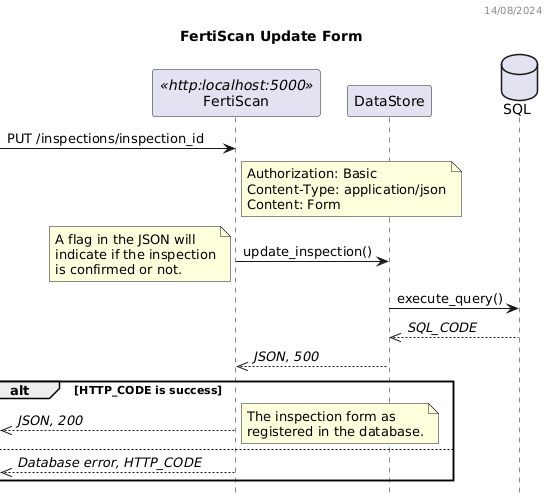
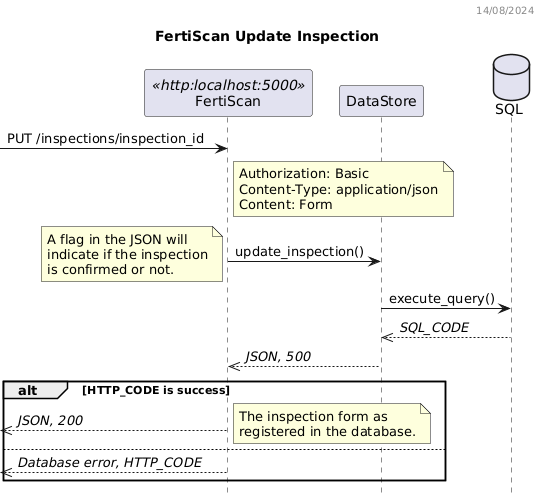
refactor: Update page titles in plantuml diagrams

diff --git a/app.py b/app.py
@@ -263,7 +263,7 @@ def discard_inspection(inspection_id):  # pragma: no cover
 @auth.login_required
 @cross_origin(origins=FRONTEND_URL)
 @swag_from("docs/swagger/search_inspection.yaml")
-def get_inspection():  # pragma: no cover
+def get_inspections():  # pragma: no cover
     try:
         with connection_manager as manager:
             with manager.get_cursor() as cursor:

diff --git a/docs/README.md b/docs/README.md
@@ -77,6 +77,6 @@ Remove all transient states of a inspection.
 
 Retrieve a list of inspections matching the search query.
 
-![search](../out/search_inspections_dss/FertiScan%20Sequence%20Diagram.png)
+![search](../out/get_inspections_dss/FertiScan%20Sequence%20Diagram.png)
 
 v1.0.0
